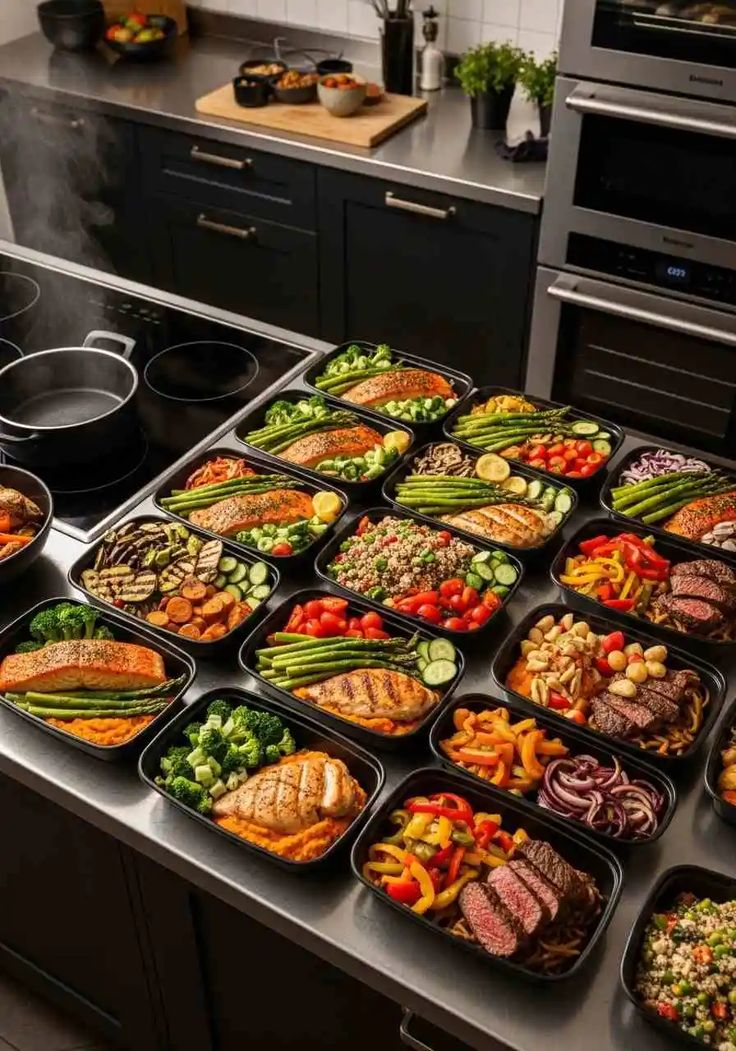
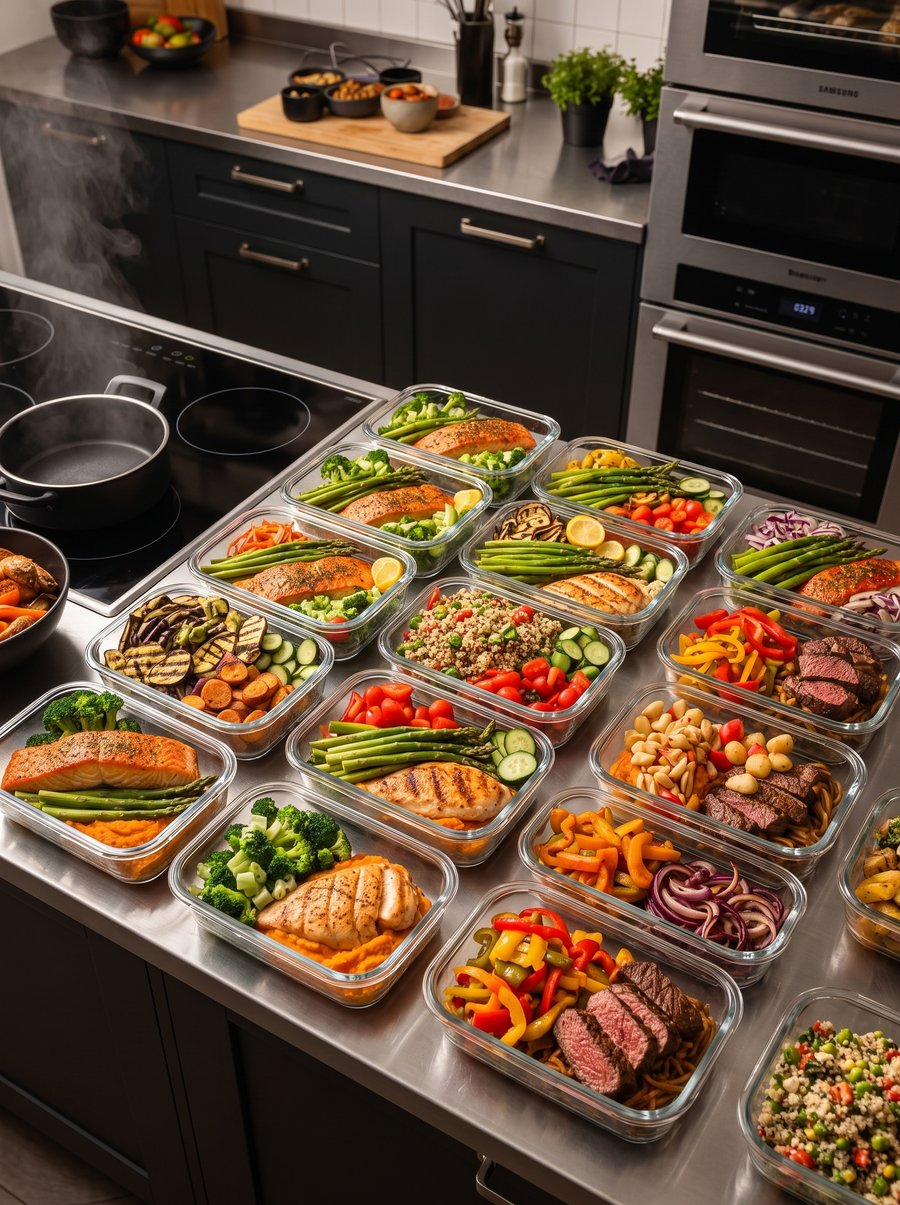
Estandarizar imagenes a contenedores de vidrio en toda la web
Reemplaza plastico/stock por la fotografia de marca establecida
(vidrio, clasps plateados, fondo oscuro): hero (edicion in-place
del fondo original), seccion WhyDelipks, y las 3 tarjetas de
Goals (antes platos crudos y personas cocinando/corriendo, ahora
el contenedor como producto protagonista en cada contexto).

diff --git a/app/components/WhyDelipks.tsx b/app/components/WhyDelipks.tsx
@@ -51,8 +51,8 @@ export default function WhyDelipks() {
           className="relative hidden lg:block"
         >
           <img
-            src="https://images.unsplash.com/photo-1498837167922-ddd27525d352?w=900&q=80&auto=format&fit=crop"
-            alt="Variedad de verduras y proteínas frescas en contenedores listos para tu semana"
+            src="/why-delipks.webp"
+            alt="Contenedores de vidrio Delipks con pollo, salmón y verduras frescas listos para tu semana"
             className="h-full w-full object-cover"
           />
           <div className="absolute inset-0 bg-primary/10" />
@@ -67,8 +67,8 @@ export default function WhyDelipks() {
           {/* Imagen en móvil */}
           <div className="mb-8 aspect-[16/7] overflow-hidden rounded-xl lg:hidden">
             <img
-              src="https://images.unsplash.com/photo-1498837167922-ddd27525d352?w=900&q=80&auto=format&fit=crop"
-              alt="Preparación de comida saludable lista para entregar"
+              src="/why-delipks.webp"
+              alt="Contenedores de vidrio Delipks con pollo, salmón y verduras frescas listos para tu semana"
               className="h-full w-full object-cover"
             />
           </div>

diff --git a/app/components/Goals.tsx b/app/components/Goals.tsx
@@ -26,19 +26,19 @@ const allGoals = [
     icon: "leaf" as const,
     title: goals.featured.title,
     description: goals.featured.description,
-    image: "https://images.unsplash.com/photo-1512621776951-a57141f2eefd?w=600&q=80&auto=format&fit=crop",
+    image: "/goal-saludable.webp",
   },
   {
     icon: "briefcase" as const,
     title: goals.supporting[0].title,
     description: goals.supporting[0].description,
-    image: "https://images.unsplash.com/photo-1556911073-52527ac43761?w=600&q=80&auto=format&fit=crop",
+    image: "/goal-semana.webp",
   },
   {
     icon: "barbell" as const,
     title: goals.supporting[1].title,
     description: goals.supporting[1].description,
-    image: "https://images.unsplash.com/photo-1729280924877-4750c0dba51e?w=600&q=80&auto=format&fit=crop",
+    image: "/goal-rendimiento.webp",
   },
 ];
 
